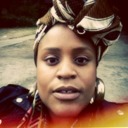
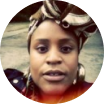
Work on testimonials. Ready for adaptibility.

diff --git a/index.html b/index.html
@@ -17,6 +17,9 @@
     <link rel="stylesheet" type="text/css" href="css/contact.css">
     <style>
         body {
+            display: flex;
+            flex-direction: column;
+            gap: 0;
             margin: auto;
             overflow-x: visible;
         }
@@ -333,96 +336,106 @@
 <section class="testimonials" id="testimonials">
     <div class="testimonials-content-wrapper">
         <div class="testimonials-header">
-            <h1>
+            <h1 class="h1 h1--bold text--center text-color--orange-500">
                 Testimonials
             </h1>
-            <p class="subtitle">
+            <p class="subtitle subtitle--normal text--center text-color--gray-600">
                 Nice things people said about me:
             </p>
         </div>
-        <div class="testimonials-cards">
-            <div class="testimonial-card">
-                <div class="testimonial-card-header">
-                    <img src="assets/images/testimonial_sarah.png" alt="Портрет Sarah">
-                    <div class="testimonial-card-header-info">
-                        <h3>
-                            Sarah
-                        </h3>
-                        <p class="subtitle">
-                            Frontend Developer
+        <div class="testimonial-cards-wrapper">
+            <div class="testimonials-cards">
+                <div class="testimonial-card-wrapper" style="grid-area: card-1">
+                    <div class="testimonial-card">
+                        <div class="testimonial-card-header">
+                            <img class="testimonial-card__portrait" src="assets/images/testimonial_sarah.png" alt="Портрет Sarah">
+                            <div class="testimonial-card-header-info focused-card">
+                                <p class="subtitle subtitle--semi-bold text-color--gray-900">
+                                    Sarah
+                                </p>
+                                <p class="subtitle subtitle--normal text-color--gray-600">
+                                    Frontend Developer
+                                </p>
+                            </div>
+                        </div>
+                        <p class="body-2">
+                            "I had the opportunity to see a Capibarara at the zoo,
+                            and it was such an incredible experience! They are
+                            such gentle creatures and so fascinating to watch.
+                            Their size and calm nature definitely make them
+                            unique among other animal species."
                         </p>
                     </div>
                 </div>
-                <p class="body-2">
-                    "I had the opportunity to see a Capibarara at the zoo,
-                    and it was such an incredible experience! They are
-                    such gentle creatures and so fascinating to watch.
-                    Their size and calm nature definitely make them
-                    unique among other animal species."
-                </p>
-            </div>
-            <div class="testimonial-card">
-                <div class="testimonial-card-header">
-                    <img src="assets/images/testimonial_jason.png" alt="Портрет Jason">
-                    <div class="testimonial-card-header-info">
-                        <h3>
-                            Jason
-                        </h3>
-                        <p class="subtitle">
-                            Manager
+                <div class="testimonial-card-wrapper" style="grid-area: card-2">
+                    <div class="testimonial-card">
+                        <div class="testimonial-card-header">
+                            <!--                    <img class="testimonial-card__portrait" src="assets/images/testimonial_jason.png" alt="Портрет Jason">-->
+                            <div class="testimonial-card-header-info">
+                                <h3 class="subtitle subtitle--semi-bold text-color--gray-900">
+                                    Jason
+                                </h3>
+                                <p class="body-3 body-3--normal text-color--gray-600">
+                                    / Manager
+                                </p>
+                            </div>
+                        </div>
+                        <p class="body-2 text--three-line-cutoff">
+                            "I recently read about Capybarara and I must say, they
+                            are truly fascinating animals. Their social behavior and
+                            close-knit family structures are so interesting, and I
+                            love how they live in such harmony with other animals
+                            in their habitats. Definitely one of the most underrated
+                            animals out there!"
                         </p>
                     </div>
                 </div>
-                <p class="body-2">
-                    "I recently read about Capybarara and I must say, they
-                    are truly fascinating animals. Their social behavior and
-                    close-knit family structures are so interesting, and I
-                    love how they live in such harmony with other animals
-                    in their habitats. Definitely one of the most underrated
-                    animals out there!"
-                </p>
-            </div>
-            <div class="testimonial-card">
-                <div class="testimonial-card-header">
-                    <img src="assets/images/testimonial_emma.png" alt="Портрет Emma">
-                    <div class="testimonial-card-header-info">
-                        <h3>
-                            Emma
-                        </h3>
-                        <p class="subtitle">
-                            Backend Developer
+                <div class="testimonial-card-wrapper" style="grid-area: card-3">
+                    <div class="testimonial-card">
+                        <div class="testimonial-card-header">
+                            <!--                    <img class="testimonial-card__portrait" src="assets/images/testimonial_emma.png" alt="Портрет Emma">-->
+                            <div class="testimonial-card-header-info">
+                                <h3 class="subtitle subtitle--semi-bold text-color--gray-900">
+                                    Emma
+                                </h3>
+                                <p class="body-3 body-3--normal text-color--gray-600">
+                                    / Backend Developer
+                                </p>
+                            </div>
+                        </div>
+                        <p class="body-2 text--three-line-cutoff">
+                            "I had the chance to interact with a Capybarara at a
+                            wildlife sanctuary, and it was such a memorable
+                            experience. They are extremely friendly and
+                            affectionate. I was surprised by how intelligent they
+                            are, and their level of comfort with humans. I would
+                            highly recommend anyone to see them up close!"
                         </p>
                     </div>
                 </div>
-                <p class="body-2">
-                    "I had the chance to interact with a Capybarara at a
-                    wildlife sanctuary, and it was such a memorable
-                    experience. They are extremely friendly and
-                    affectionate. I was surprised by how intelligent they
-                    are, and their level of comfort with humans. I would
-                    highly recommend anyone to see them up close!"
-                </p>
-            </div>
-            <div class="testimonial-card">
-                <div class="testimonial-card-header">
-                    <img src="assets/images/testimonial_megan.png" alt="Портрет Megan">
-                    <div class="testimonial-card-header-info">
-                        <h3>
-                            Megan
-                        </h3>
-                        <p class="subtitle">
-                            DevOps
+                <div class="testimonial-card-wrapper" style="grid-area: card-4">
+                    <div class="testimonial-card">
+                        <div class="testimonial-card-header">
+                            <!--                    <img class="testimonial-card__portrait" src="assets/images/testimonial_megan.png" alt="Портрет Megan">-->
+                            <div class="testimonial-card-header-info">
+                                <h3 class="subtitle subtitle--semi-bold text-color--gray-900">
+                                    Megan
+                                </h3>
+                                <p class="body-3 body-3--normal text-color--gray-600">
+                                    / DevOps
+                                </p>
+                            </div>
+                        </div>
+                        <p class="body-2 text--three-line-cutoff">
+                            "As an animal lover, I've always been fascinated by
+                            Capybarara. They are super social creatures and thrive
+                            in groups. It's amazing how they have adaptations that
+                            allow them to live both on land and in water. Their
+                            unique appearance and laid-back personality make
+                            them the perfect animal to admire!"
                         </p>
                     </div>
                 </div>
-                <p class="body-2">
-                    "As an animal lover, I've always been fascinated by
-                    Capybarara. They are super social creatures and thrive
-                    in groups. It's amazing how they have adaptations that
-                    allow them to live both on land and in water. Their
-                    unique appearance and laid-back personality make
-                    them the perfect animal to admire!"
-                </p>
             </div>
         </div>
     </div>
@@ -448,6 +461,5 @@
         </div>
     </div>
 </section>
-
 </body>
 </html>

diff --git a/css/testimonials.css b/css/testimonials.css
@@ -1,27 +1,72 @@
 .testimonials {
-
+    position: relative;
+    display: flex;
+    flex-direction: column;
+    padding: 96px 80px;
+    justify-content: center;
+    align-items: center;
+    background: var(--gray-50);
 }
 
 .testimonials-content-wrapper {
-
+    display: flex;
+    flex-direction: column;
+    gap: 48px;
 }
 
 .testimonials-header {
+    display: flex;
+    flex-direction: column;
+    gap: 16px;
+}
 
+.testimonial-card-wrapper {
+    display: flex;
 }
 
 .testimonials-cards {
+    display: grid;
+    grid-template-areas:
+    "card-1 . card-2 card-2 card-2"
+    "card-1 . card-3 . card-4";
+    grid-column-gap: 32px;
+    grid-row-gap: 28px;
+}
 
+.testimonial-card-wrapper {
+    border-radius: 12px;
+    padding: 32px;
+    background: var(--gray-default);
+    box-shadow: var(--drop-shadow-md);
 }
 
 .testimonial-card {
-
+    display: flex;
+    flex-direction: column;
+    gap: 16px;
 }
 
 .testimonial-card-header {
+    display: flex;
+    flex-direction: row;
+    gap: 32px;
+}
 
+.testimonial-card__portrait {
+    width: 104px;
+    height: 104px;
+    border-radius: 999px;
 }
 
 .testimonial-card-header-info {
+    display: flex;
+    align-items: center;
+    flex-direction: row;
+    gap: 8px;
+}
 
+.focused-card {
+    flex-direction: column;
+    gap: 0;
+    align-items: start;
 }

diff --git a/css/contact.css b/css/contact.css
@@ -1,9 +1,12 @@
 .contact {
-
+    position: relative;
+    padding: 96px 80px;
 }
 
 .contact-content-wrapper {
-
+    display: flex;
+    flex-direction: column;
+    align-items: center;
 }
 
 .contact-header {
@@ -23,10 +26,10 @@
 }
 
 .contact-info__email::before {
-    content: url("assets/images/envelope.svg");
+    content: url("../assets/images/envelope.svg");
 }
 
 .contact-info__phone::before {
-    content: url("assets/images/phone-alt.svg");
+    content: url("../assets/images/phone-alt.svg");
 }
 

diff --git a/css/fonts.css b/css/fonts.css
@@ -296,6 +296,14 @@
     text-align: center;
 }
 
+.text--three-line-cutoff {
+    overflow: hidden;
+    text-overflow: ellipsis;
+    display: -webkit-box;
+    -webkit-line-clamp: 3;
+    -webkit-box-orient: vertical;
+}
+
 .text-color--gray-default {
     color: var(--gray-default);
 }
